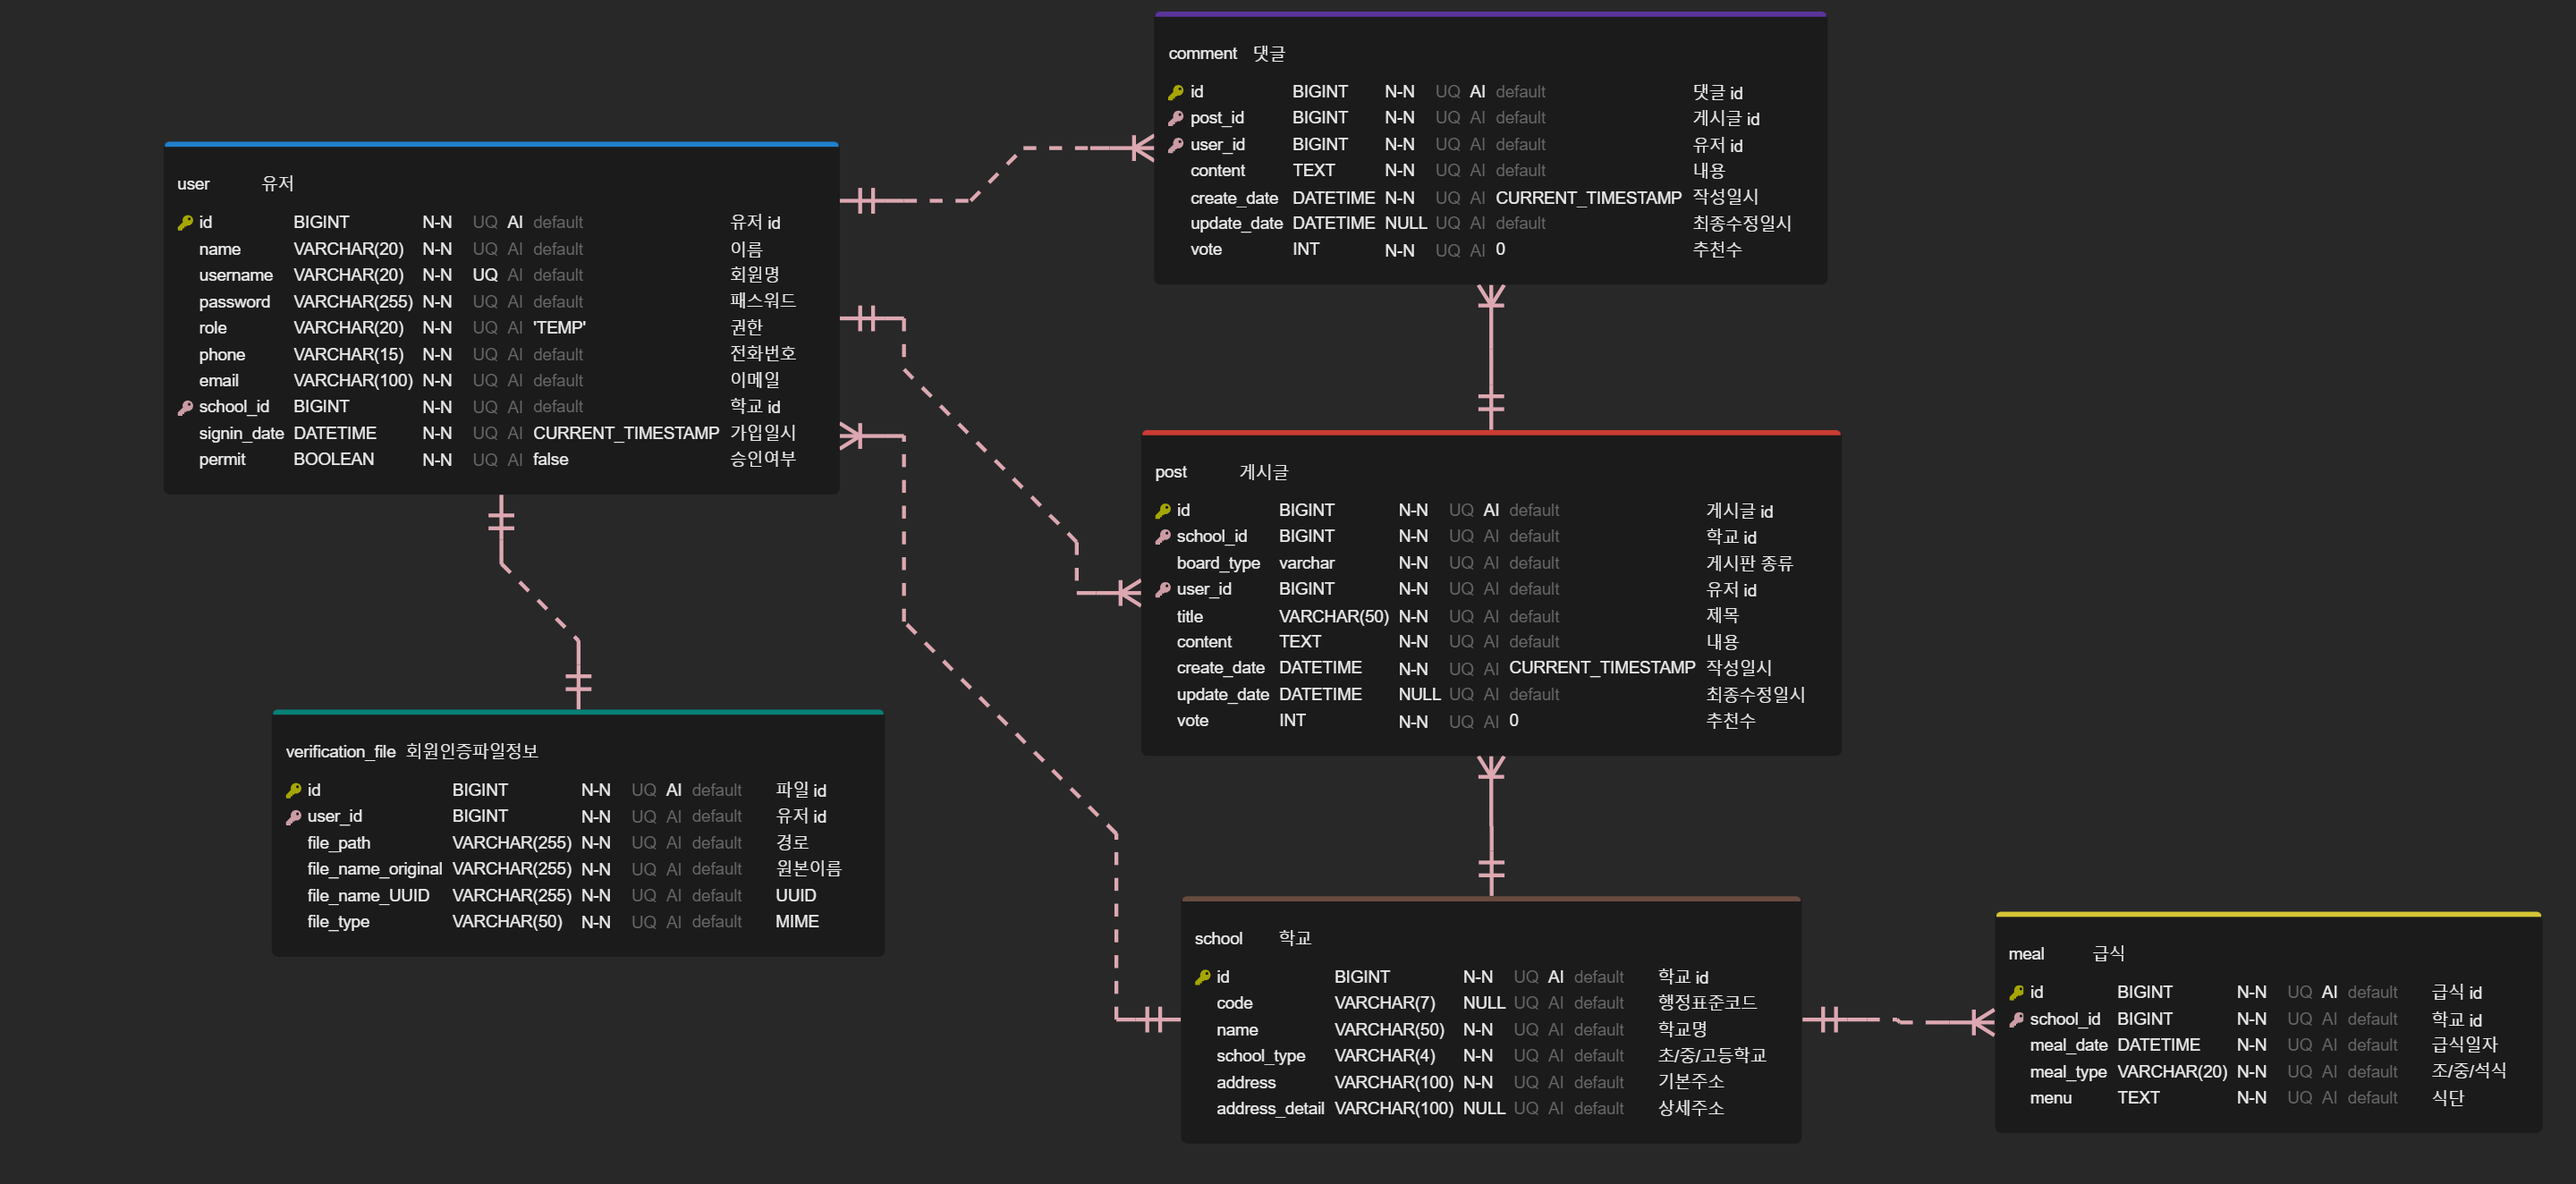
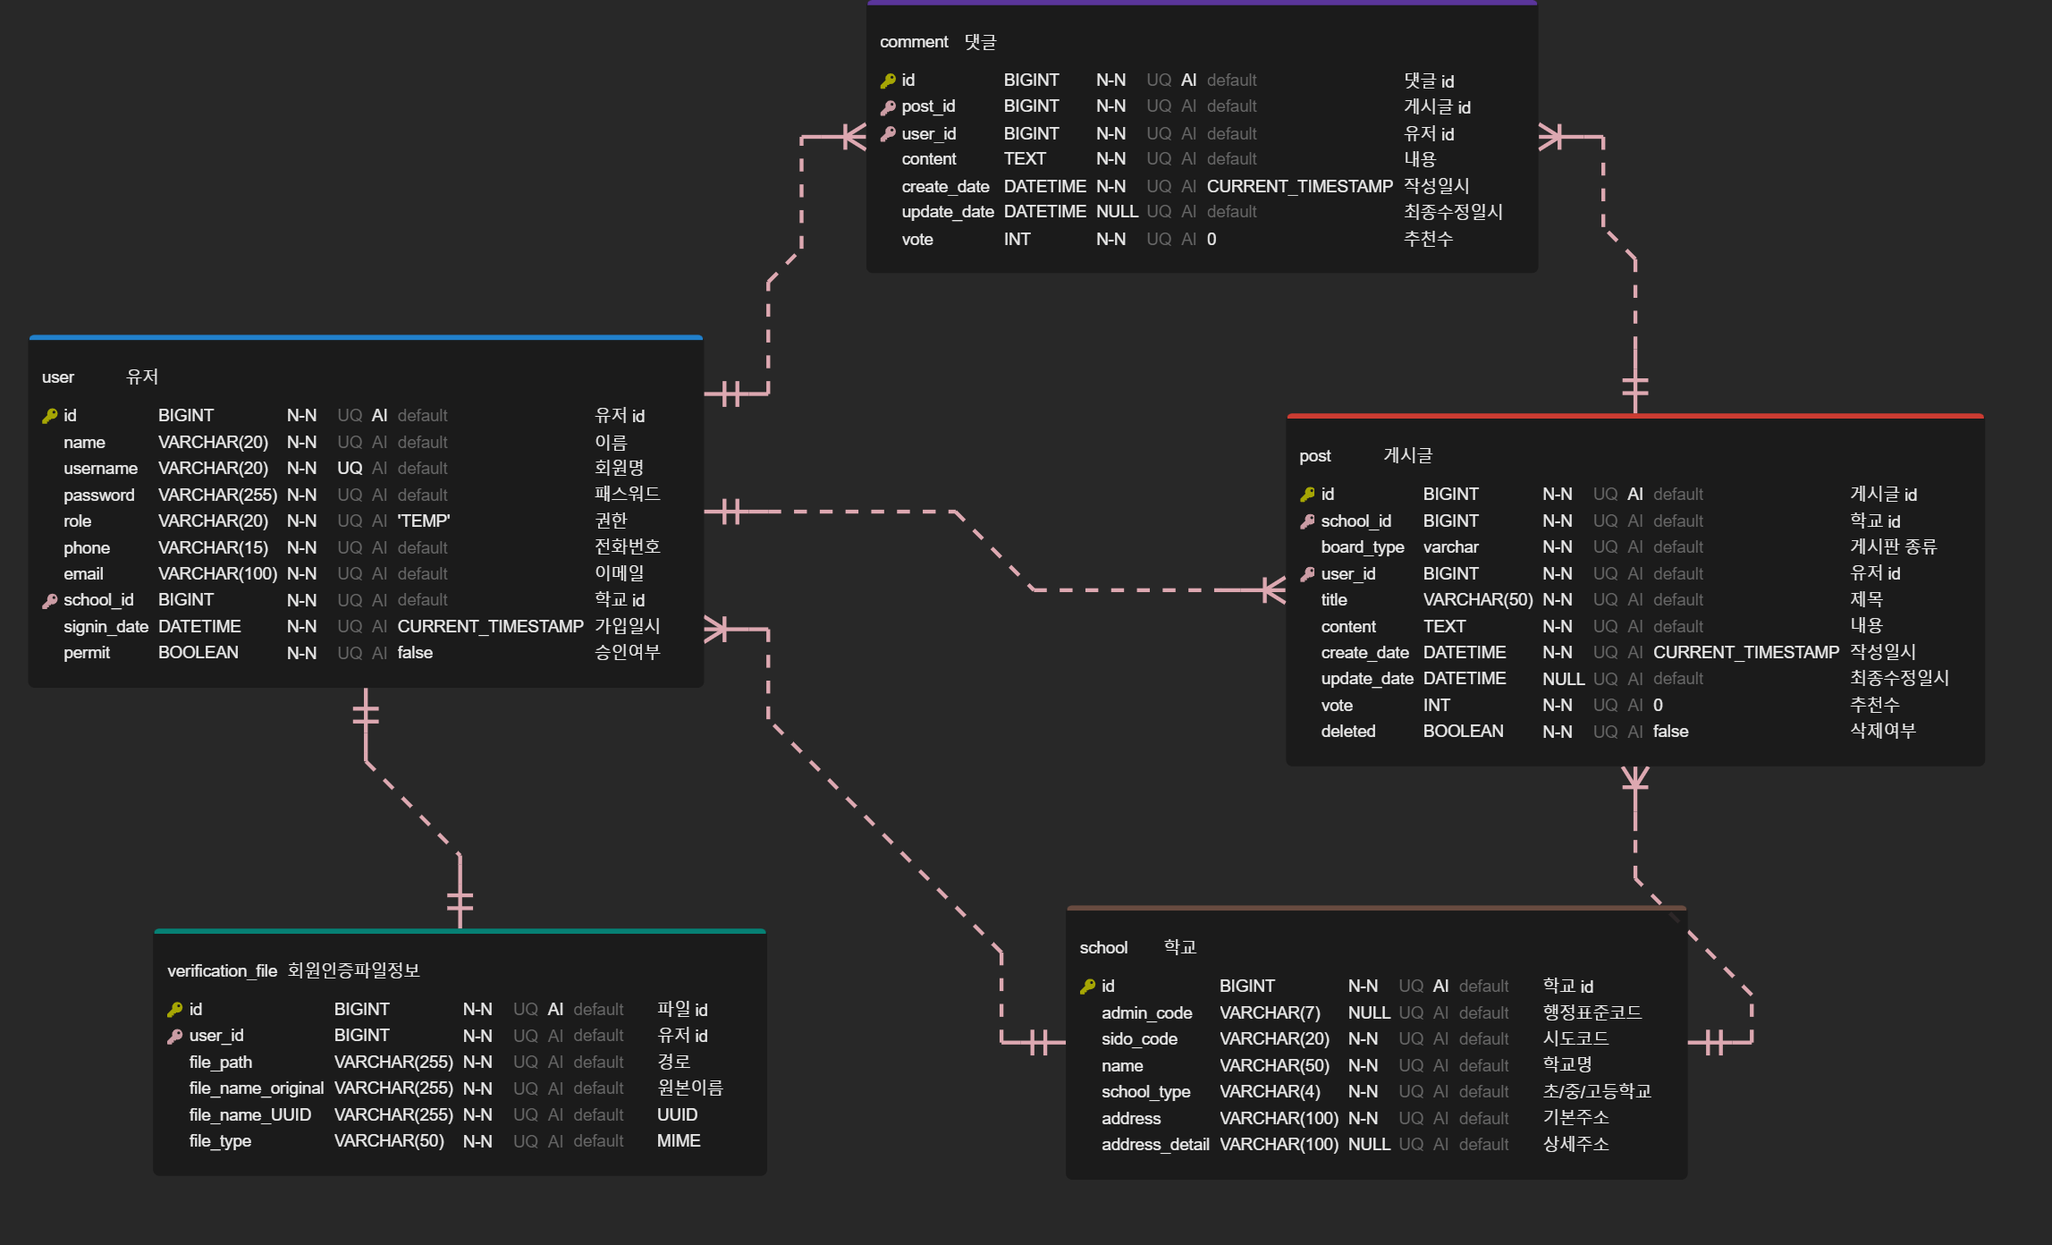
급식 정보 조회 서비스 구현
- Entity 제거 (급식 정보가 수정되는 경우가 많아, DB에 저장하지 않고 매번 외부 API 호출하는 것으로 변경)
- Meal -> MealDto로 변경

diff --git a/src/main/java/com/dnghkm/high_school_community/service/MealService.java b/src/main/java/com/dnghkm/high_school_community/service/MealService.java
@@ -1,0 +1,125 @@
+package com.dnghkm.high_school_community.service;
+
+import com.dnghkm.high_school_community.dto.MealDto;
+import com.dnghkm.high_school_community.entity.School;
+import com.dnghkm.high_school_community.entity.User;
+import com.dnghkm.high_school_community.repository.UserRepository;
+import com.fasterxml.jackson.core.JsonProcessingException;
+import com.fasterxml.jackson.databind.JsonNode;
+import com.fasterxml.jackson.databind.ObjectMapper;
+import lombok.RequiredArgsConstructor;
+import lombok.extern.slf4j.Slf4j;
+import org.springframework.beans.factory.annotation.Value;
+import org.springframework.security.core.userdetails.UsernameNotFoundException;
+import org.springframework.stereotype.Service;
+import org.springframework.transaction.annotation.Transactional;
+
+import java.io.BufferedReader;
+import java.io.InputStreamReader;
+import java.net.HttpURLConnection;
+import java.net.URI;
+import java.net.URL;
+import java.time.LocalDate;
+import java.time.YearMonth;
+import java.time.format.DateTimeFormatter;
+import java.util.ArrayList;
+import java.util.HashMap;
+import java.util.List;
+import java.util.Map;
+
+
+/**
+ * 사용자가 급식 정보를 조회했을 때, 당월 급식 식단 정보를 API를 호출해 반환함
+ */
+@Slf4j
+@Service
+@RequiredArgsConstructor
+@Transactional
+public class MealService {
+    private final UserRepository userRepository;
+
+    @Value("${open.nice.key}")
+    private String apikey;
+
+    public List<MealDto> getMealListFromApi(String username) {
+        School findSchool = findUser(username).getSchool();
+        String adminCode = findSchool.getAdminCode();
+        String sidoCode = findSchool.getSidoCode();
+        List<MealDto> mealDtos = new ArrayList<>();
+
+        //nice api 에서 급식정보(json String) 가져오기
+        String mealData = getMealString(adminCode, sidoCode);
+
+        //받아온 급식정보 json 파싱하기
+        List<Map<String, Object>> parsedMealData = parseMeal(mealData);
+
+        for (Map<String, Object> parsedMeal : parsedMealData) {
+            String dateString = parsedMeal.get("mealDate").toString();
+            DateTimeFormatter formatter = DateTimeFormatter.ofPattern("yyyyMMdd");
+            LocalDate date = LocalDate.parse(dateString, formatter);
+            MealDto mealDto = MealDto.builder()
+                    .mealDate(date)
+                    .mealType(parsedMeal.get("type").toString())
+                    .menu(parsedMeal.get("menu").toString())
+                    .build();
+            mealDtos.add(mealDto);
+        }
+        return mealDtos;
+    }
+
+    //api 호출해서 해당 월 급식정보 JSON 데이터를 String으로 받아옴
+    private String getMealString(String schoolCode, String sidoCode) {
+        String apiUrl;
+        String startDate = YearMonth.now().atDay(1).toString().replace("-", "");
+        String endDate = YearMonth.now().atEndOfMonth().toString().replace("-", "");
+        apiUrl = "https://open.neis.go.kr/hub/mealServiceDietInfo?Type=json&ATPT_OFCDC_SC_CODE=" + sidoCode + "&SD_SCHUL_CODE=" + schoolCode + "&MLSV_FROM_YMD=" + startDate + "&MLSV_TO_YMD=" + endDate + "&KEY=" + apikey;
+        try {
+            URL url = new URI(apiUrl).toURL();
+            HttpURLConnection connection = (HttpURLConnection) url.openConnection();
+            connection.setRequestMethod("GET");
+            int responseCode = connection.getResponseCode();
+            BufferedReader br;
+            if (responseCode == HttpURLConnection.HTTP_OK) {
+                br = new BufferedReader(new InputStreamReader(connection.getInputStream()));
+            } else {
+                br = new BufferedReader(new InputStreamReader(connection.getErrorStream()));
+            }
+            String inputLine;
+            StringBuilder response = new StringBuilder();
+            while ((inputLine = br.readLine()) != null) {
+                response.append(inputLine);
+            }
+            br.close();
+            return response.toString();
+        } catch (Exception e) {
+            return "failed to get response";
+        }
+    }
+
+    //받아온 json String 파싱
+    private List<Map<String, Object>> parseMeal(String jsonString) {
+        ObjectMapper objectMapper = new ObjectMapper();
+        JsonNode rootNode;
+        try {
+            rootNode = objectMapper.readTree(jsonString);
+        } catch (JsonProcessingException e) {
+            throw new RuntimeException(e);
+        }
+        List<Map<String, Object>> resultMaps = new ArrayList<>();
+        JsonNode rows = rootNode.path("mealServiceDietInfo").get(1).path("row");
+        for (JsonNode row : rows) {
+            Map<String, Object> map = new HashMap<>();
+            map.put("mealDate", row.path("MLSV_YMD").asText());
+            map.put("type", row.path("MMEAL_SC_NM").asText());
+            map.put("menu", row.path("DDISH_NM").asText());
+            resultMaps.add(map);
+        }
+        return resultMaps;
+    }
+
+    private User findUser(String username) {
+        return userRepository.findByUsername(username).orElseThrow(
+                () -> new UsernameNotFoundException("유저를 찾을 수 없습니다. username = " + username)
+        );
+    }
+}

diff --git a/src/main/java/com/dnghkm/high_school_community/controller/MealController.java b/src/main/java/com/dnghkm/high_school_community/controller/MealController.java
@@ -1,0 +1,27 @@
+package com.dnghkm.high_school_community.controller;
+
+import com.dnghkm.high_school_community.dto.MealDto;
+import com.dnghkm.high_school_community.service.MealService;
+import lombok.RequiredArgsConstructor;
+import lombok.extern.slf4j.Slf4j;
+import org.springframework.http.ResponseEntity;
+import org.springframework.security.core.context.SecurityContextHolder;
+import org.springframework.web.bind.annotation.GetMapping;
+import org.springframework.web.bind.annotation.RequestMapping;
+import org.springframework.web.bind.annotation.RestController;
+
+import java.util.List;
+
+@RestController
+@Slf4j
+@RequestMapping("/meal")
+@RequiredArgsConstructor
+public class MealController {
+    private final MealService mealService;
+
+    @GetMapping
+    public ResponseEntity<List<MealDto>> getMeal() {
+        String username = SecurityContextHolder.getContext().getAuthentication().getName();
+        return ResponseEntity.ok(mealService.getMealListFromApi(username));
+    }
+}

diff --git a/src/main/java/com/dnghkm/high_school_community/auth/SecurityConfig.java b/src/main/java/com/dnghkm/high_school_community/auth/SecurityConfig.java
@@ -41,6 +41,8 @@ public class SecurityConfig {
                 .authorizeHttpRequests(auth -> auth
                         .requestMatchers("/auth", "/schools", "/").permitAll()
                         .requestMatchers("/post/**").hasAnyRole("USER", "ADMIN")
+                        .requestMatchers("/comment/**").hasAnyRole("USER", "ADMIN")
+                        .requestMatchers("/meal/**").hasAnyRole("USER", "ADMIN")
 //                        .requestMatchers("/user/**").hasRole("ADMIN")
                         .anyRequest().permitAll())
                 .sessionManagement(session -> session.sessionCreationPolicy(SessionCreationPolicy.STATELESS))

diff --git a/src/main/java/com/dnghkm/high_school_community/dto/MealDto.java b/src/main/java/com/dnghkm/high_school_community/dto/MealDto.java
@@ -1,0 +1,16 @@
+package com.dnghkm.high_school_community.dto;
+
+import lombok.AllArgsConstructor;
+import lombok.Builder;
+import lombok.Data;
+
+import java.time.LocalDate;
+
+@Builder
+@Data
+@AllArgsConstructor
+public class MealDto {
+    private LocalDate mealDate;
+    private String mealType; //조, 중, 석식
+    private String menu;
+}
